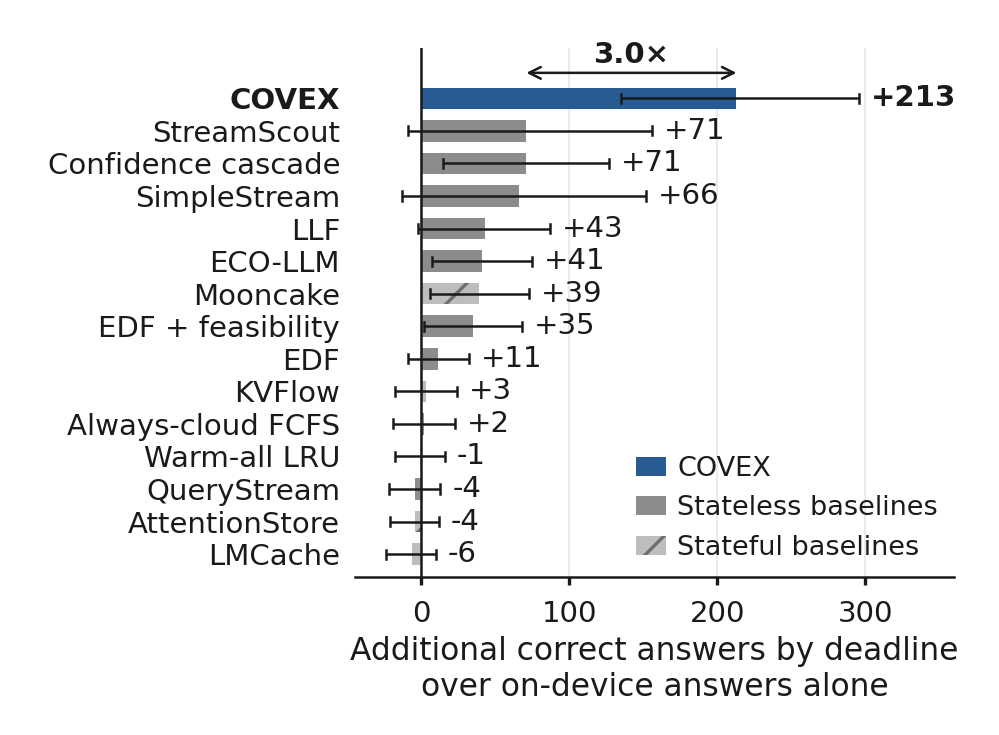
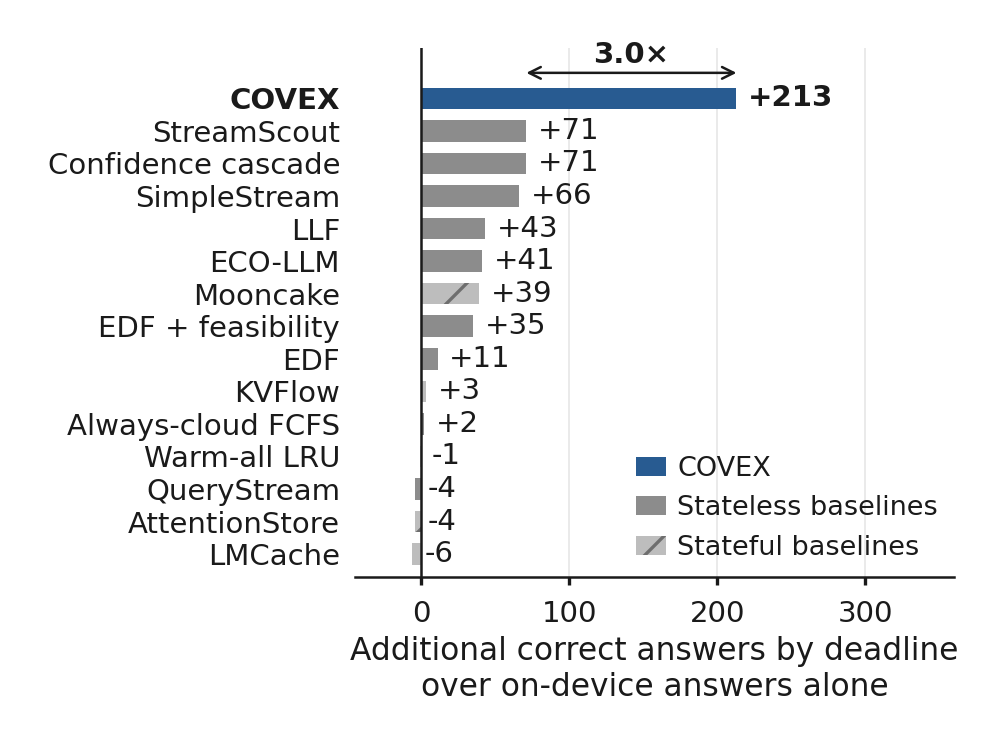
StudyFIG1: remove error bars (paired CIs stay in rows JSON)

Changed region(s): [[0.3724, 0.1197, 0.962, 0.7782]]

diff --git a/experiments/analysis/figures/f01_intro_teaser.py b/experiments/analysis/figures/f01_intro_teaser.py
@@ -141,11 +141,9 @@ def render(out, rows, pooled_n):
             col, hatch, ec = C_STATE, None, "none"
         ax.barh(y, r["diff"], height=0.66, color=col, edgecolor=ec, hatch=hatch, linewidth=0.0)
         lo, hi = r["ci95"]
-        ax.plot([lo, hi], [y, y], color=INK, lw=0.6, solid_capstyle="butt", zorder=3)
-        for xx in (lo, hi):
-            ax.plot([xx, xx], [y - 0.14, y + 0.14], color=INK, lw=0.6, zorder=3)
+        # error bars removed (ruling: figure shows values only; paired CIs are in the rows JSON)
         label = f"{r['diff']:+d}".replace("+-", "-")
-        x_lab = max(hi, r["diff"]) + 8
+        x_lab = r["diff"] + 8
         ax.text(x_lab, y, label, va="center", ha="left", fontsize=7, color=INK,
                 fontweight="bold" if r["class"] == "covex" else "normal")
     ax.set_yticks(ys)
